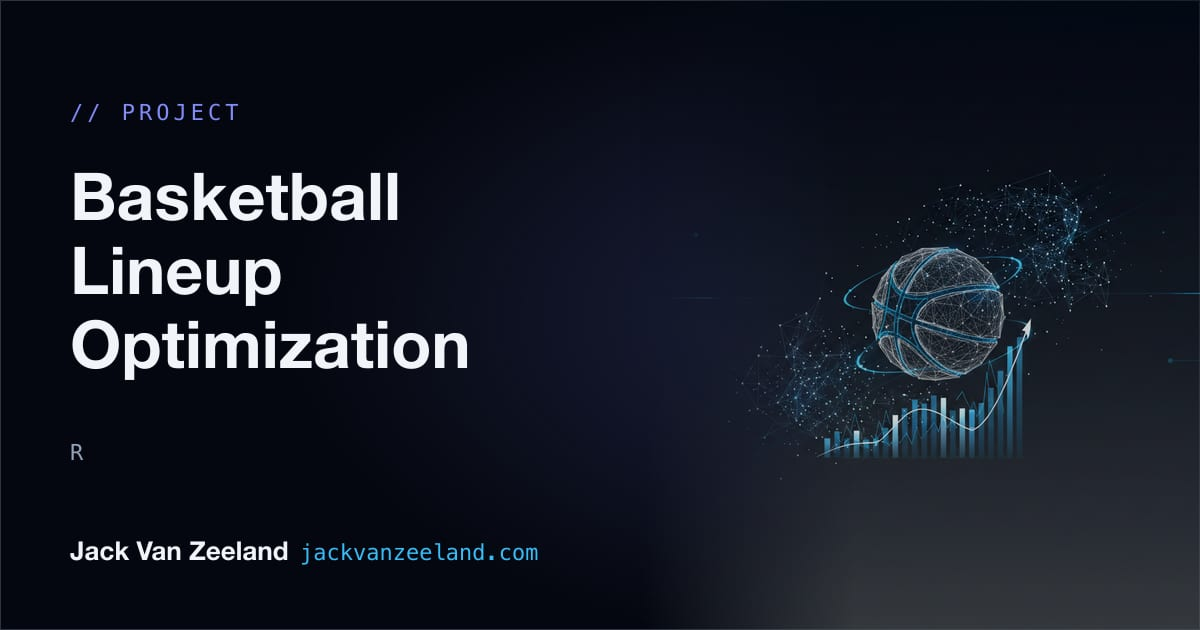
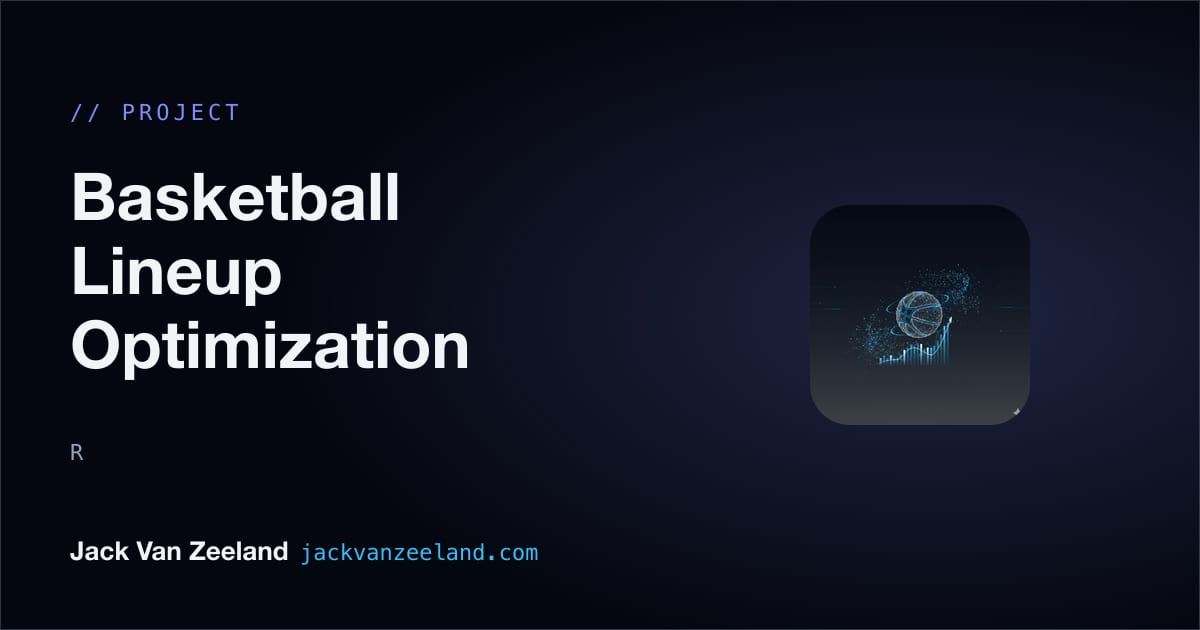
Auto-commit: 7 file(s) changed
- public/og/projects/basketball-optimization.jpg
  - public/og/projects/budgeting-automation.jpg
  - public/og/projects/html-gems.jpg
  - public/og/projects/lyric-animator.jpg
  - public/og/projects/reddit-stories.jpg
  - public/og/projects/secret-santa.jpg
  - src/data/projects.ts

Changed region(s): [[0.6167, 0.7841, 1.0, 1.0], [0.6475, 0.3016, 0.925, 0.7238], [0.9867, 0.4524, 1.0, 0.4825]]

diff --git a/src/data/projects.ts b/src/data/projects.ts
@@ -106,7 +106,7 @@ export const PROJECTS: Project[] = [
     tags: ["Sports", "Data"],
     github_link: "",
     image: "superBowlMain.png",
-    imageStyle: "cover",
+    imageStyle: "icon",
     page: "",
     is_interactive: false,
     featured: true,
@@ -125,7 +125,7 @@ export const PROJECTS: Project[] = [
     tags: ["Finance", "Tools"],
     github_link: "",
     image: "mortgageSimulator.jpg",
-    imageStyle: "cover",
+    imageStyle: "icon",
     page: "",
     is_interactive: true,
     youtube_link: "",
@@ -163,7 +163,7 @@ export const PROJECTS: Project[] = [
     tags: ["Tools"],
     github_link: "",
     image: "partnerMatchingMain.jpeg",
-    imageStyle: "cover",
+    imageStyle: "icon",
     page: "secret-santa",
     is_interactive: true,
     youtube_link: "",
@@ -181,7 +181,7 @@ export const PROJECTS: Project[] = [
     tags: ["Creative"],
     github_link: "",
     image: "BangerBank.png",
-    imageStyle: "cover",
+    imageStyle: "icon",
     page: "lyric-animator",
     is_interactive: true,
     youtube_link: "",
@@ -199,7 +199,7 @@ export const PROJECTS: Project[] = [
     tags: ["Automation", "Finance"],
     github_link: "",
     image: "budgetingMain.jpeg",
-    imageStyle: "cover",
+    imageStyle: "icon",
     page: "budgeting-automation",
     is_interactive: false,
     youtube_link: "",
@@ -219,7 +219,7 @@ export const PROJECTS: Project[] = [
     tags: ["Sports", "Data"],
     github_link: "https://github.com/jackvanzeeland/basketballLineupAnalysis",
     image: "basketballMain.jpeg",
-    imageStyle: "cover",
+    imageStyle: "icon",
     page: "basketball-optimization",
     is_interactive: false,
     youtube_link: "",
@@ -240,7 +240,7 @@ export const PROJECTS: Project[] = [
     tags: ["Automation", "Creative"],
     github_link: "",
     image: "redditStories.jpeg",
-    imageStyle: "cover",
+    imageStyle: "icon",
     page: "",
     is_interactive: false,
     youtube_link: "https://www.youtube.com/@redditStories_JVZ",
@@ -295,7 +295,7 @@ export const PROJECTS: Project[] = [
     tags: ["Creative", "Artifact"],
     github_link: "",
     image: "ai_generated_html.png",
-    imageStyle: "cover",
+    imageStyle: "icon",
     page: "html-gems",
     is_interactive: true,
     youtube_link: "",
